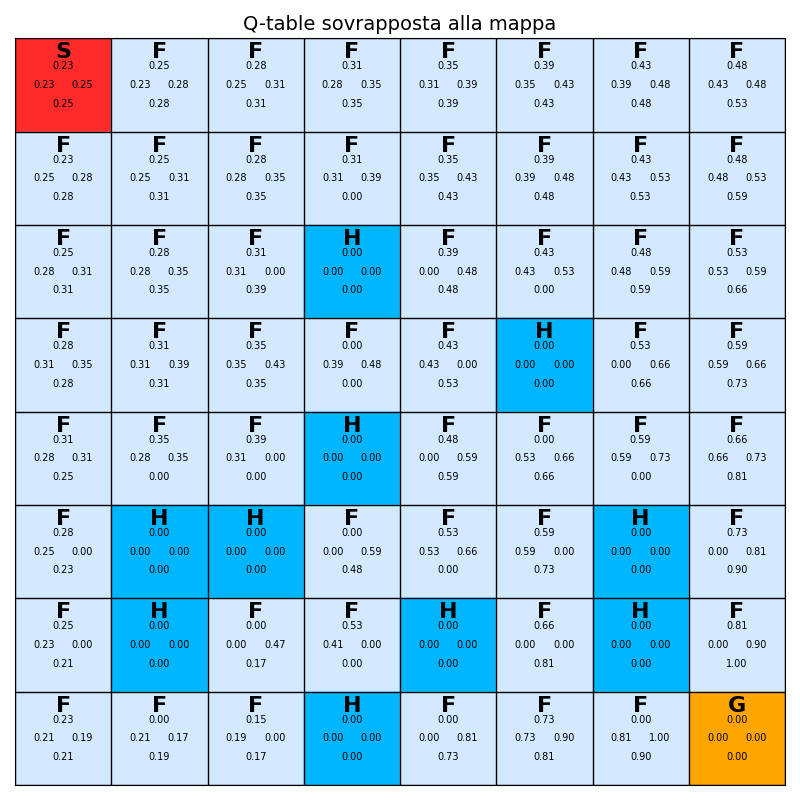
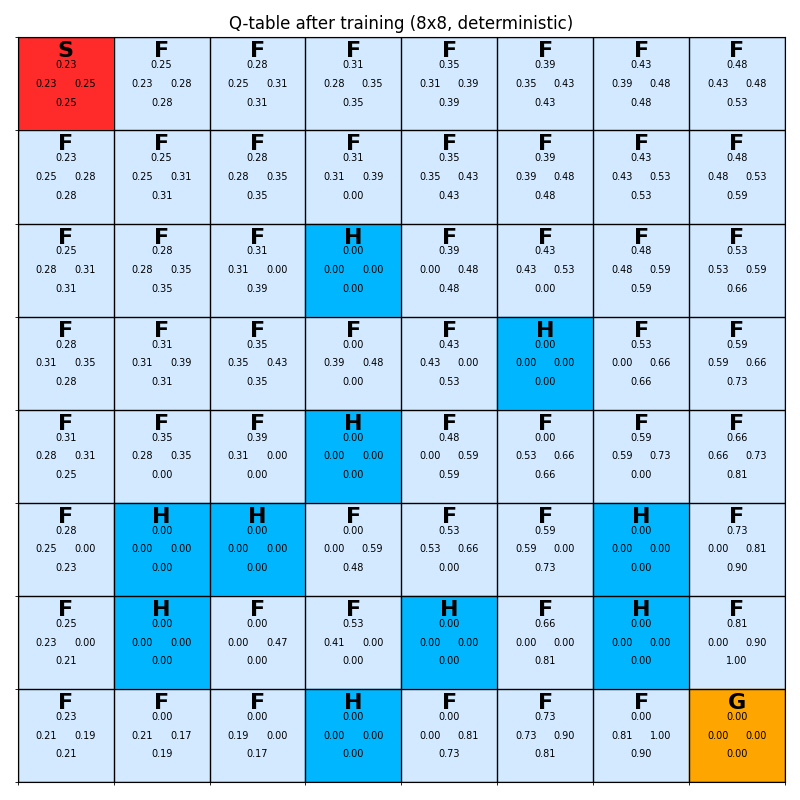
.

diff --git a/Q-Learning/map_plot.py b/Q-Learning/map_plot.py
@@ -4,94 +4,79 @@ import matplotlib.colors as mcolors
 
 # Plot Map
 def plot_frozenlake_map(env, filename="frozenlake_map.png"):
-    desc = env.unwrapped.desc.astype('U1')
+    desc = env.unwrapped.desc.astype(str)
     nrow, ncol = desc.shape
 
-    color_map = {
-        'F': "#D2E9FF",  # frozen
-        'H': "#00B7FF",  # hole
-        'S': "#FF2B2B",  # start
-        'G': "#FFA500"   # goal
+    colors = {
+        'F': "#D2E9FF",
+        'H': "#00B7FF",
+        'S': "#FF2B2B",
+        'G': "#FFA500"
     }
 
-    rgb_grid = np.zeros((nrow, ncol, 3))
+    img = np.zeros((nrow, ncol, 3))
     for r in range(nrow):
         for c in range(ncol):
             tile = desc[r, c]
-            hex_color = color_map.get(tile, '#FFFFFF')
-            rgb_grid[r, c] = mcolors.to_rgb(hex_color)
+            img[r, c] = mcolors.to_rgb(colors.get(tile, '#FFFFFF'))
 
     fig, ax = plt.subplots(figsize=(ncol, nrow))
-    ax.imshow(rgb_grid)
+    ax.imshow(img)
 
     for r in range(nrow):
         for c in range(ncol):
-            ax.text(c, r, desc[r, c], ha='center', va='center', fontsize=16, fontweight='bold', color='black')
+            ax.text(c, r, desc[r, c], ha='center', va='center', fontsize=16, fontweight='bold')
 
-    ax.set_xticks(np.arange(-0.5, ncol, 1))
-    ax.set_yticks(np.arange(-0.5, nrow, 1))
-    ax.set_xticklabels([])
-    ax.set_yticklabels([])
-    ax.grid(color='black', linewidth=2)
-    ax.set_title(f'FrozenLake Map ({nrow}x{ncol})')
+    ax.set_xticks([])
+    ax.set_yticks([])
+    ax.set_xticks(np.arange(-0.5, ncol, 1), minor=True)
+    ax.set_yticks(np.arange(-0.5, nrow, 1), minor=True)
+    ax.grid(which='minor', color='black', linewidth=2)
+    ax.set_title(f"FrozenLake Map ({nrow}x{ncol})")
 
     plt.savefig(filename)
     plt.close()
 
-
 # Plot Q Table
 def plot_q_table(env, q_table, map_name, is_slippery):
-    import matplotlib.pyplot as plt
-    import numpy as np
+    desc = env.unwrapped.desc.astype(str)
+    n = desc.shape[0]
 
-    actions = ['←', '↓', '→', '↑']
-    desc = env.unwrapped.desc.astype(str)  # Mappa con lettere (S, F, G, H)
-    grid_size = desc.shape[0]
-
-    fig, ax = plt.subplots(figsize=(grid_size, grid_size))
-    ax.set_xticks(np.arange(grid_size+1) - 0.5, minor=True)
-    ax.set_yticks(np.arange(grid_size+1) - 0.5, minor=True)
-    ax.grid(which="minor", color="black", linestyle='-', linewidth=1)
-    ax.tick_params(which="minor", bottom=False, left=False)
-
-    # Rendi il background chiaro
+    fig, ax = plt.subplots(figsize=(n, n))
+    ax.set_xlim(-0.5, n - 0.5)
+    ax.set_ylim(n - 0.5, -0.5)
     ax.set_xticks([])
     ax.set_yticks([])
-    ax.set_xlim(-0.5, grid_size-0.5)
-    ax.set_ylim(grid_size-0.5, -0.5)  # inverti y
+    ax.set_xticks(np.arange(-0.5, n, 1), minor=True)
+    ax.set_yticks(np.arange(-0.5, n, 1), minor=True)
+    ax.grid(which="minor", color="black", linewidth=1)
 
-    for row in range(grid_size):
-        for col in range(grid_size):
-            state = row * grid_size + col
-            cell = desc[row, col]
+    colors = {
+        'S': "#FF2B2B",
+        'F': "#D2E9FF",
+        'H': "#00B7FF",
+        'G': "#FFA500"
+    }
 
-            # Colore dello sfondo in base al tipo di cella
-            if cell == 'S':
-                color = "#FF2B2B"  # azzurrino
-            elif cell == 'F':
-                color = "#D2E9FF"  # bianco
-            elif cell == 'H':
-                color = "#00B7FF"  # rosso chiaro
-            elif cell == 'G':
-                color = "#FFA500"  # verde chiaro
-            else:
-                color = "#dddddd"
+    for r in range(n):
+        for c in range(n):
+            state = r * n + c
+            tile = desc[r, c]
+            ax.add_patch(plt.Rectangle((c - 0.5, r - 0.5), 1, 1, color=colors[tile]))
 
-            ax.add_patch(plt.Rectangle((col - 0.5, row - 0.5), 1, 1, color=color))
+            ax.text(c, r - 0.35, tile, ha='center', va='center', fontsize=16, fontweight='bold')
 
-            # Etichetta della cella
-            ax.text(col, row - 0.35, cell, ha='center', va='center', fontsize=16, weight='bold')
+            for a in range(4):
+                q = q_table[state, a]
+                if a == 0: pos = (c - 0.2, r)    
+                elif a == 1: pos = (c, r + 0.2)  
+                elif a == 2: pos = (c + 0.2, r)  
+                elif a == 3: pos = (c, r - 0.2)  
+                ax.text(pos[0], pos[1], f"{q:.2f}", ha='center', va='center', fontsize=7)
 
-            # Q-values in stile bussola
-            for action in range(4):
-                q_val = q_table[state, action]
-                if action == 0: pos = (col - 0.2, row)      # LEFT
-                elif action == 1: pos = (col, row + 0.2)    # DOWN
-                elif action == 2: pos = (col + 0.2, row)    # RIGHT
-                elif action == 3: pos = (col, row - 0.2)    # UP
-                ax.text(pos[0], pos[1], f"{q_val:.2f}", ha='center', va='center', fontsize=7)
+    title = f"Q-table after training ({map_name}, {'slippery' if is_slippery else 'deterministic'})"
+    ax.set_title(title, fontsize=12)
 
-    plt.title("Q-table sovrapposta alla mappa", fontsize=14)
     filename = f"qtable_map_{map_name}_{'slippery' if is_slippery else 'deterministic'}.png"
     plt.tight_layout()
     plt.savefig(filename)
